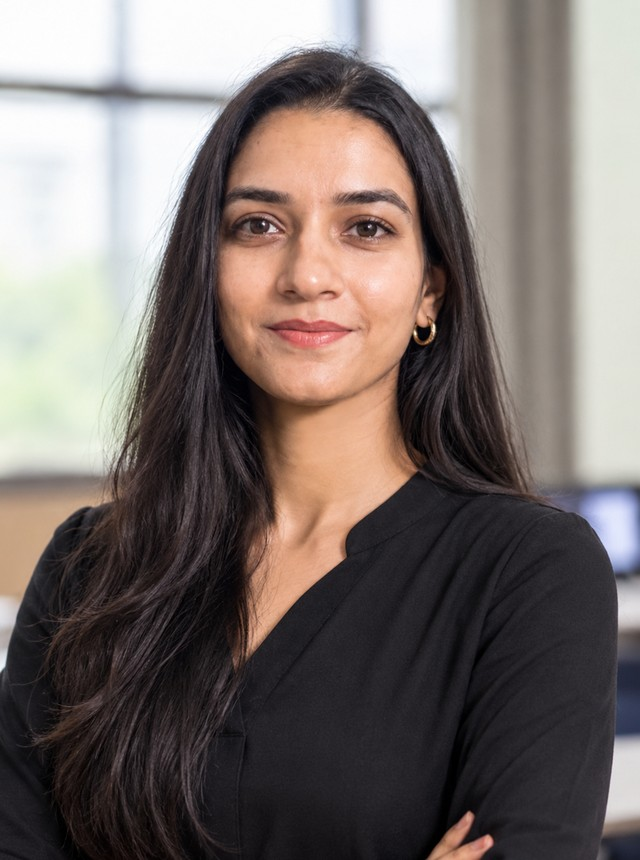
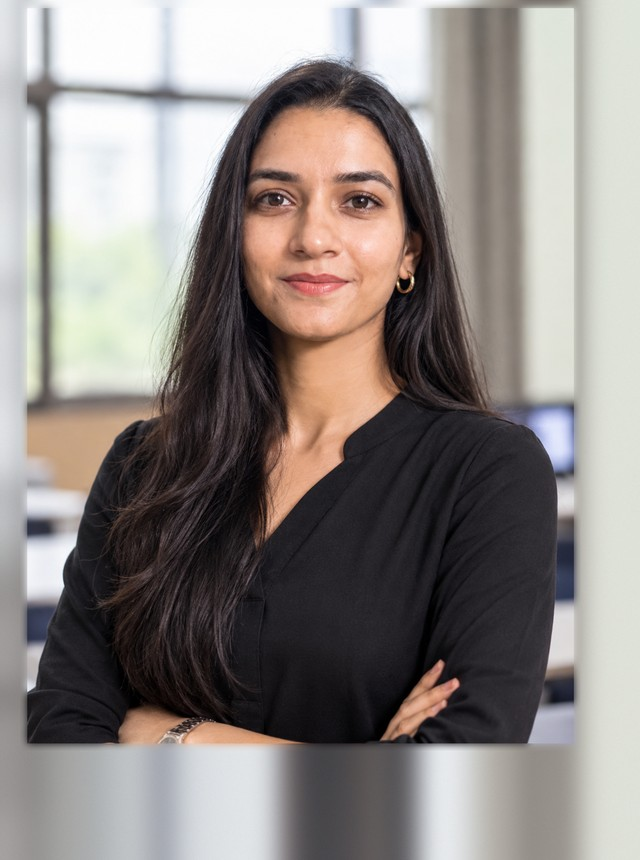
Zoom out Ananya Rao instructor DP to half-body (desk144).
Widen framing from desk143 tight crop toward Neha-scale faceH;
face-centered 3:4 site+Flutter JPEGs; cache-bust app.js?v=desk144 / ?v=2.

diff --git a/js/app.js b/js/app.js
@@ -811,7 +811,7 @@ const MENTORS = [
   { name: "Aarav Mehta", role: "Full-time trader", tag: "Intraday", img: "/img/instructors/aarav-mehta.jpg?v=7" },
   { name: "Neha Kapoor", role: "Options specialist", tag: "Income strategies", img: "/img/instructors/neha-kapoor.jpg?v=9" },
   { name: "Vikram Singh", role: "Price action coach", tag: "Swing trading", img: "/img/instructors/vikram-singh.jpg?v=1" },
-  { name: "Ananya Rao", role: "Long-term investor", tag: "Portfolio", img: "/img/instructors/ananya-rao.jpg?v=1" },
+  { name: "Ananya Rao", role: "Long-term investor", tag: "Portfolio", img: "/img/instructors/ananya-rao.jpg?v=2" },
   { name: "Kabir Joshi", role: "Index options", tag: "Bank Nifty", img: "/img/instructors/kabir-joshi.jpg?v=9" },
   { name: "Rohan Desai", role: "Fund researcher", tag: "Mutual funds", img: "/img/instructors/rohan-desai.jpg?v=13" },
   { name: "Priya Nair", role: "Asset allocation", tag: "SIP lab", img: "https://images.unsplash.com/photo-1580489944761-15a19d654956?auto=format&fit=crop&w=640&h=860&q=80" },
@@ -4929,6 +4929,7 @@ function traderIcon(kind) {
 /* cache-bust desk141: Vikram Singh DP from user photo ref (site 640x860 + flutter 864x1152) /img/instructors/vikram-singh.jpg?v=1 */
 /* cache-bust desk142: Neha Kapoor DP from user photo ref-2 (site 640x860 + flutter 864x1152) /img/instructors/neha-kapoor.jpg?v=9 */
 /* cache-bust desk143: Ananya Rao DP from user photo ref (site 640x860 + flutter 864x1152) /img/instructors/ananya-rao.jpg?v=1 */
+/* cache-bust desk144: Ananya Rao DP zoom-out half-body (site 640x860 + flutter 864x1152) /img/instructors/ananya-rao.jpg?v=2 */
 function traderCardHTML(m, i, opts = {}) {
   const title = String(m.role || m.tag || "Mentor").trim();
   const cloneAttrs = opts.clone ? ' tabindex="-1" aria-hidden="true"' : "";

diff --git a/account.html b/account.html
@@ -17,7 +17,7 @@
   <div id="site-header"></div>
   <main id="accountRoot" class="ld-page"></main>
   <div id="site-footer"></div>
-  <script src="/js/app.js?v=desk143" defer></script>
+  <script src="/js/app.js?v=desk144" defer></script>
   <script src="/js/lms.js?v=cert2" defer></script>
 </body>
 </html>

diff --git a/learning.html b/learning.html
@@ -17,7 +17,7 @@
   <div id="site-header"></div>
   <main id="myLearning" class="ld-page"></main>
   <div id="site-footer"></div>
-  <script src="/js/app.js?v=desk143" defer></script>
+  <script src="/js/app.js?v=desk144" defer></script>
   <script src="/js/lms.js?v=cert2" defer></script>
 </body>
 </html>

diff --git a/course.html b/course.html
@@ -22,7 +22,7 @@
     </div>
   </main>
   <div id="site-footer"></div>
-  <script src="/js/app.js?v=desk143" defer></script>
+  <script src="/js/app.js?v=desk144" defer></script>
   <script src="/js/lms.js?v=cert2" defer></script>
   <script src="/js/drm.js?v=desk29" defer></script>
 </body>

diff --git a/contact.html b/contact.html
@@ -48,7 +48,7 @@
   </main>
   <div id="site-footer"></div>
   <script src="/js/help-faqs.js?v=faq1" defer></script>
-  <script src="/js/app.js?v=desk143" defer></script>
+  <script src="/js/app.js?v=desk144" defer></script>
   <script src="/js/lms.js" defer></script>
 </body>
 </html>

diff --git a/certificate.html b/certificate.html
@@ -19,7 +19,7 @@
     <div id="certRoot"></div>
   </main>
   <div id="site-footer"></div>
-  <script src="/js/app.js?v=desk143" defer></script>
+  <script src="/js/app.js?v=desk144" defer></script>
   <script src="/js/lms.js?v=cert2" defer></script>
 </body>
 </html>

diff --git a/control.html b/control.html
@@ -253,7 +253,7 @@
         loading = true;
         busy(true);
         var files = [
-          "/js/app.js?v=desk143",
+          "/js/app.js?v=desk144",
           "/js/lms.js",
           "/js/admin-core.js?v=desk8",
           "/js/admin.js?v=drm5",

diff --git a/index.html b/index.html
@@ -415,7 +415,7 @@
     </section>
   </main>
   <div id="site-footer"></div>
-  <script src="/js/app.js?v=desk143" defer></script>
+  <script src="/js/app.js?v=desk144" defer></script>
   <script src="/js/lms.js?v=cert2" defer></script>
 </body>
 </html>

diff --git a/live-room.html b/live-room.html
@@ -22,7 +22,7 @@
 </head>
 <body class="live-room-page">
   <div id="liveRoom"></div>
-  <script src="/js/app.js?v=desk143" defer></script>
+  <script src="/js/app.js?v=desk144" defer></script>
   <script src="/js/lms.js" defer></script>
 </body>
 </html>

diff --git a/nifty-options.html b/nifty-options.html
@@ -44,7 +44,7 @@
     </section>
   </main>
   <div id="site-footer"></div>
-  <script src="/js/app.js?v=desk143" defer></script>
+  <script src="/js/app.js?v=desk144" defer></script>
   <script src="/js/lms.js?v=cert2" defer></script>
 </body>
 </html>

diff --git a/option-trading-course.html b/option-trading-course.html
@@ -44,7 +44,7 @@
     </section>
   </main>
   <div id="site-footer"></div>
-  <script src="/js/app.js?v=desk143" defer></script>
+  <script src="/js/app.js?v=desk144" defer></script>
   <script src="/js/lms.js?v=cert2" defer></script>
 </body>
 </html>

diff --git a/share-market-course-in-hindi.html b/share-market-course-in-hindi.html
@@ -42,7 +42,7 @@
     </section>
   </main>
   <div id="site-footer"></div>
-  <script src="/js/app.js?v=desk143" defer></script>
+  <script src="/js/app.js?v=desk144" defer></script>
   <script src="/js/lms.js?v=cert2" defer></script>
 </body>
 </html>
